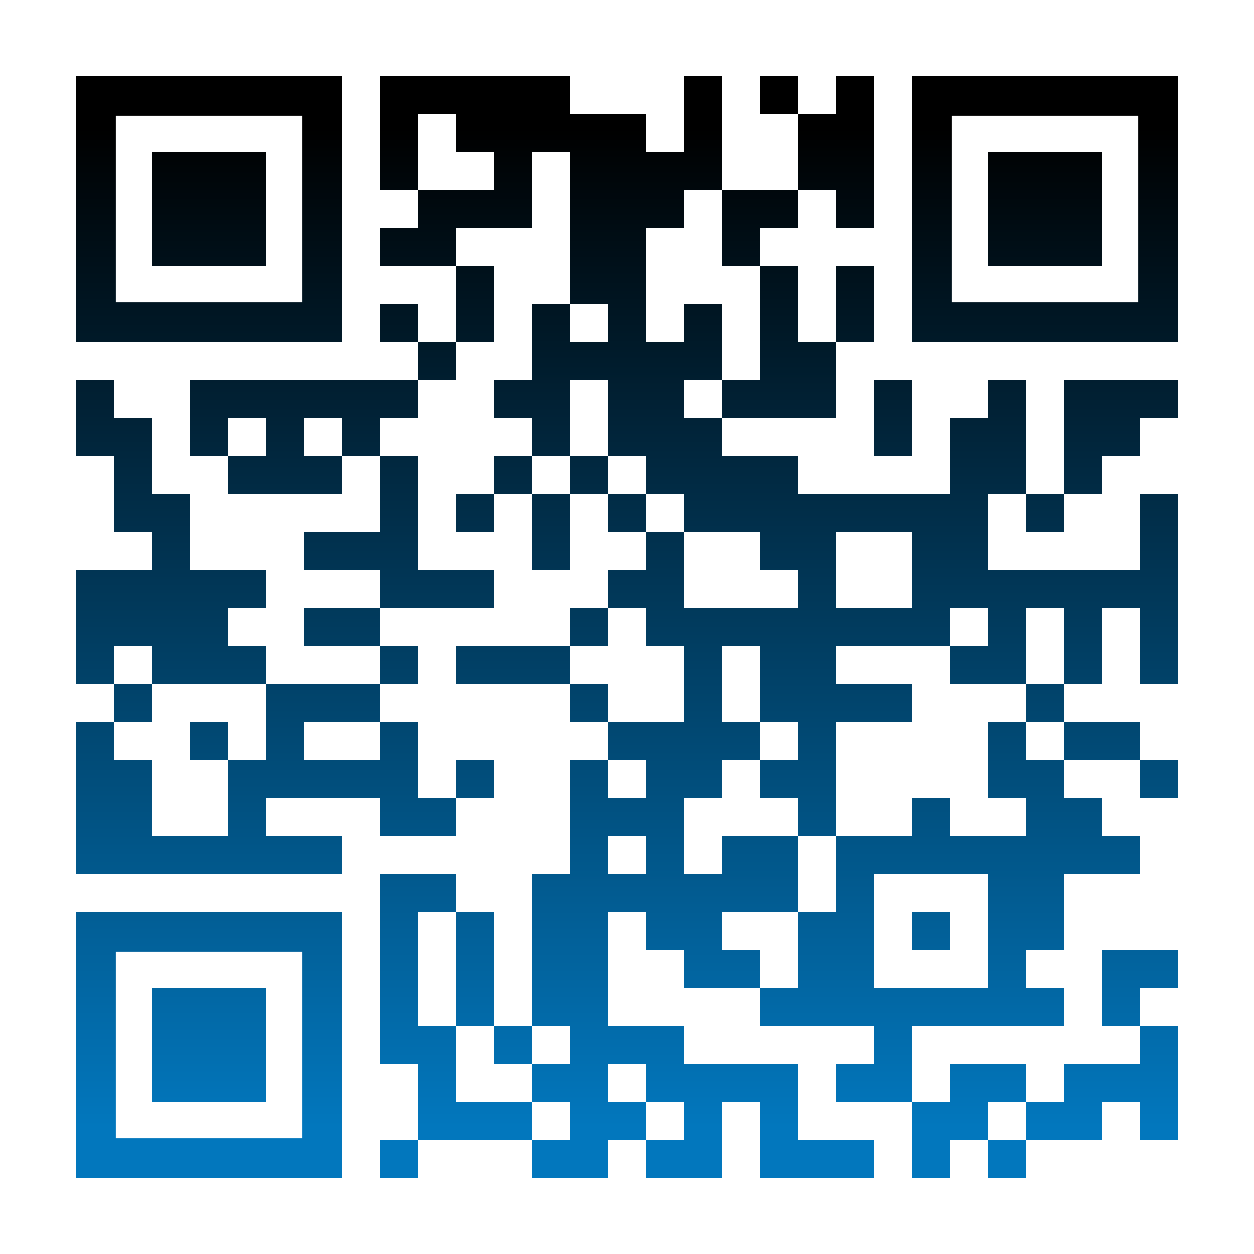
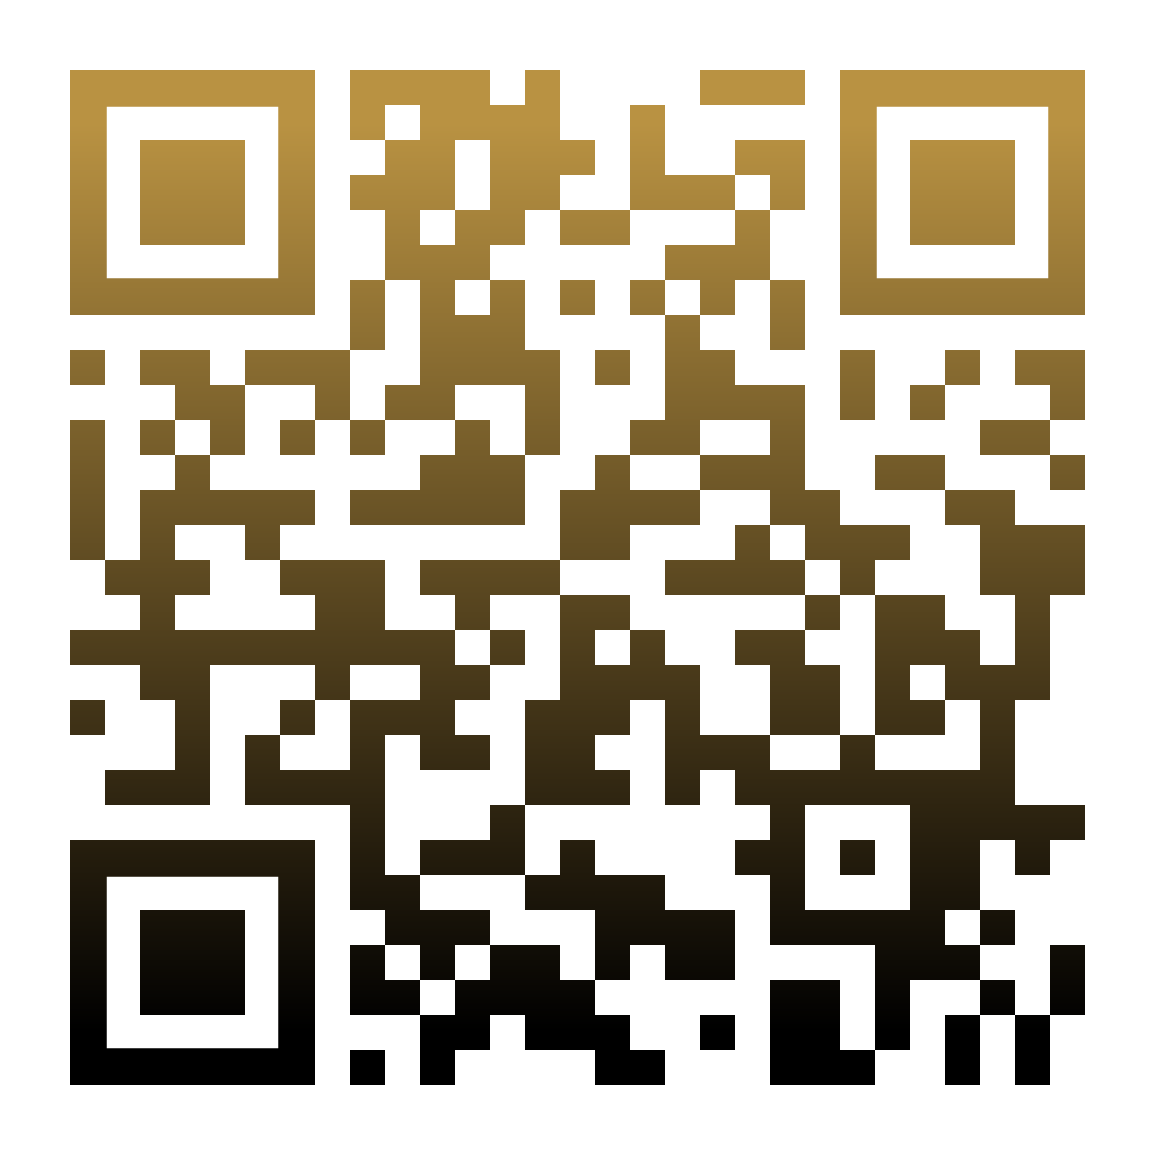
Updated site: layout, Facebook like, playlist and contact form

diff --git a/index.html b/index.html
@@ -9,8 +9,11 @@
   <link rel="stylesheet" type="text/css" href="style.css" />
 </head>
 
+
+
 <div id="fb-root"></div>
-<script async defer crossorigin="anonymous" src="https://connect.facebook.net/he_IL/sdk.js#xfbml=1&version=v22.0">
+<script async defer crossorigin="anonymous" 
+  src="https://connect.facebook.net/en_US/sdk.js#xfbml=1&version=v22.0">
 </script>
 
 <script>
@@ -24,9 +27,14 @@
     const subject = "הודעה מהאתר של סבתא ג׳וליה";
     const body = `${message}\n\n${emoji}\n\nנשלח על ידי: ${email}`;
 
-    window.location.href = `mailto:danielnisanov2812@gmail.com?subject=${encodeURIComponent(subject)}&body=${encodeURIComponent(body)}`;
+    alert("תודה! ההודעה שלך נשלחה בהצלחה 😊");
+
+    document.getElementById("contactForm").reset();
   }
 </script>
+
+
+
 
 <body id="top">
   <header id="site-title">
@@ -90,7 +98,7 @@
 <p >
   סבתא ג'וליה נולדה ב־29 במאי 1943 בלוב, בעיר טריפולי.
   היא הייתה בתו של שלום ז"ל, יליד 1916, וטוני ז"ל, שנולדה ב־1918. 
-  ג'וליה הייתה אחת מתוך שמונה אחים ואחיות, משפחה גדולה ומלוכדת.
+  ג'וליה הייתה אחת מתוך שבעה אחים ואחיות, משפחה גדולה ומלוכדת.
 </p>
 <p>
 
@@ -108,8 +116,9 @@
   בבית המשפחה תמיד שררה אהבה מיוחדת לאוכל, במיוחד למאכלים הטריפוליטאים המסורתיים והאהובים: מפרום, נוקידס, קוסקוס, ממולאים — טעמים של ילדות ושל בית.
 </p>
 <p>
-  בשנת 1963, כשהייתה צעירה, התקיימה מסיבה במושב חצב.
-   ג'וליה החליטה ללכת למסיבה עם חברותיה. באותו ערב, הגיע למסיבה בחור צעיר מכפר ורבורג השכן — סבא. הוא הבחין בג'וליה והזמין אותה לרקוד. הרגע הזה היה תחילתה של אהבה גדולה. השניים התאהבו, נישאו, והקימו משפחה לתפארת — ארבעה ילדים, שפע של אהבה, וזוגיות חמה שממשיכה לפרוח עד היום.
+  בשנת 1965, כשהייתה צעירה, התקיימה מסיבה במושב חצב.
+   ג'וליה החליטה ללכת למסיבה עם חברותיה. באותו ערב, הגיע למסיבה בחור צעיר מכפר ורבורג השכן — סבא. הוא הבחין בג'וליה והזמין אותה לרקוד. 
+   הרגע הזה היה תחילתה של אהבה גדולה. השניים התאהבו, נישאו, והקימו משפחה לתפארת — ארבעה ילדים, שפע של אהבה, וזוגיות חמה שממשיכה לפרוח עד היום.
 </p>
 <br/>
 <br/>
@@ -167,35 +176,99 @@
 <section id="playlist" class="section" dir="rtl">
 <br/>
 <h2>My Playlist</h2>
-<h3>בתחילת העמוד שמענו את סבתא ג'וליה הזמרת, עכשיו נשמע את המקור</h3><br/>
+<h3>סבתוש אוהבת הכי לשמוע שירי ארץ ישראל היפה 🎶</h3>
+<br/>
 
+<div class="playlist-container">
+  <iframe class="playlist-video"
+    src="https://www.youtube.com/embed/_f0YuwKXunc?si=y9yL51QBV0LrNJMU"
+    title="Video 1 simona dimona"
+    frameborder="0"
+    allow="accelerometer; autoplay; clipboard-write; encrypted-media; gyroscope; picture-in-picture"
+    allowfullscreen></iframe>
 
-<iframe width="560" height="315" src="https://www.youtube.com/embed/FMh_1FuJPpE?si=TbFV6fikjFSeE_Pz" title="YouTube video player" frameborder="0" allow="accelerometer; autoplay; clipboard-write; encrypted-media; gyroscope; picture-in-picture; web-share" referrerpolicy="strict-origin-when-cross-origin" allowfullscreen></iframe>
+  <iframe class="playlist-video"
+    src="https://www.youtube.com/embed/FMh_1FuJPpE?si=iyJHhl2Cm-oPBp54"
+    title="Video 2 shmolik"
+    frameborder="0"
+    allow="accelerometer; autoplay; clipboard-write; encrypted-media; gyroscope; picture-in-picture"
+    allowfullscreen></iframe>
+
+    
+
+  <iframe class="playlist-video"
+    src="https://www.youtube.com/embed/Xc6coB1-EPw"
+    title="Video 3 gvanim"
+    frameborder="0"
+    allow="accelerometer; autoplay; clipboard-write; encrypted-media; gyroscope; picture-in-picture"
+    allowfullscreen></iframe>
+
+</div>
 
 <br/>
 <br/>
 </section>
 
-<section id="like" class="section" dir="rtl">
+<!-- <section id="like" class="section" dir="rtl">
   <br/>
-  <h2>Give Me a Like</h2>
-  <h3>לחץ למטה כדי לעשות לייק לתמונת הפרופיל של סבתא ג'וליה בפייסבוק</h3>
+  <h2>Give a Like to Grandma's Favorite Hobby</h2>
+  <h3>סבתוש הכי אוהבת שירה בציבור 🎤 – לחצו לייק לדף האהוב עליה בפייסבוק:  </h3>
 
-  <div class="fb-like" 
-    data-href="https://www.facebook.com/groups/2163296157331541/?locale=he_IL" 
-    data-width="300" 
-    data-layout="button_count" 
-    data-action="like" 
-    data-size="large" 
+    <div class="facebook-image">
+      <a href="https://www.facebook.com/ShiraEmunah?locale=he_IL" target="_blank">
+        <img src="facebook_pic.png" alt="Facebook Page">
+      </a>
+    </div>
+    <br/><br/>
+  </section> -->
+
+
+  <section id="like" class="section" dir="rtl">
+    <br/>
+    <h2>Give a Like to Grandma's Favorite Hobby</h2>
+    <h3>סבתוש הכי אוהבת שירה בציבור 🎤 – לחצו לייק לדף האהוב עליה בפייסבוק:</h3>
+  
+
+    <!-- <button onclick="likeAlert()" class="like-button-custom">
+      ❤ לחצו כאן כדי לעשות לייק!
+    </button>
+  
+  <script>
+    function likeAlert() {
+      alert("תודה שעשיתם לייק לעמוד שירה בציבור! 🎶 סבתוש בטוח תתרגש!");
+      window.open("https://www.facebook.com/SingAlongIL", "_blank");
+    } -->
+  </script>
+    <div class="fb-like"
+    data-href="https://www.facebook.com/ShiraEmunah"
+    data-width=""
+    data-layout="standard"
+    data-action="like"
+    data-size="large"
     data-share="true">
   </div>
+  
+    <div class="facebook-image" >
+      <a href="https://www.facebook.com/ShiraEmunah?locale=he_IL" target="_blank">
+        <img src="facebook_pic.png" alt="Facebook Page" >
+      </a>
+    </div>
+  
+  </section>
+
+
+
 </section>
+
+
+
 
 
 <section id="qrcoder" class="section" dir="rtl">
 <br/>
 <h2>Scan My Code</h2>
-<h3>סרוק את הקוד הזה כדי לבקר באתר של סבתא ג'וליה ב-GitHub!</h3>
+<h3>סרוק את הקוד הזה כדי לבקר באתר של סבתא ג'וליה ממכשיר אחר:</h3>
+</br>
 <img src="qr-code.png" alt="QR Code to site" style="max-width: 200px;">
 <br/>
 <br/>
@@ -284,21 +357,7 @@
   </form>
 </section>
 
-<!-- 
-<script type="text/javascript">
-  // <script src="https://code.jquery.com/jquery-3.6.0.min.js"></script>
-$(function(){
-  $("#nav a").click(function(e){
-    e.preventDefault();
-    $('html,body').scrollTo(this.hash,this.hash); 
-  });
-});
-</script>
-<script type="text/javascript">
- $(document).scroll(function() {
-    $('#menu').toggle($(this).scrollTop()>1000)
- })
- </script> -->
+
 
  <script type="text/javascript">
   document.querySelectorAll("nav#menu a").forEach(link => {

diff --git a/style.css b/style.css
@@ -117,8 +117,7 @@ body {
   }
 
   .section {
-	/* margin-top: 180px;  */
-	padding-top: 150px;
+	padding-top: 20px;
 	min-height: 100vh;
   }
   
@@ -192,43 +191,57 @@ body {
 	transform: scale(1.05);
   }
 
-
-  .video-container {
-	position: relative;
-	padding-bottom: 56.25%; 
-	height: 0;
-	overflow: hidden;
-	max-width: 100%;
+  .playlist-container {
+	display: flex;
+	flex-wrap: wrap;
+	justify-content: center;
+	gap: 20px;
   }
   
-  .video-container iframe {
-	position: absolute;
-	top: 0;
-	left: 0;
-	width: 100%;
-	height: 100%;
+  .playlist-video {
+	width: 300px;
+	height: 170px;
+	border-radius: 10px;
+	box-shadow: 0 4px 12px rgba(0, 0, 0, 0.2);
   }
-
-  #like-container {
-	margin-top: 20px;
+  
+  #like {
 	text-align: center;
-	font-size: 1.5em;
   }
   
-  #likeBtn {
-	background-color: #ff4d6d;
+  .facebook-image {
+	margin: 20px auto;
+	text-align: center;
+  }
+  
+  .facebook-image img {
+	width: 250px;
+	max-width: 100%;
+	border-radius: 12px;
+	box-shadow: 0 4px 12px rgba(0, 0, 0, 0.15);
+	transition: transform 0.3s ease;
+  }
+  
+  .facebook-image img:hover {
+	transform: scale(1.05);
+  }
+  
+  .like-button-custom {
+	margin-top: 20px;
+	padding: 12px 24px;
+	background-color: #4267B2;
 	color: white;
 	border: none;
-	padding: 10px 20px;
-	font-size: 1em;
-	border-radius: 10px;
+	border-radius: 8px;
+	font-size: 1.1em;
 	cursor: pointer;
-	margin-right: 10px;
+	transition: background-color 0.3s ease;
   }
   
-  #likeBtn:hover {
-	background-color: #e63950;
+  .like-button-custom:hover {
+	background-color: #365899;
   }
+  
   
 
   .qa-table {
